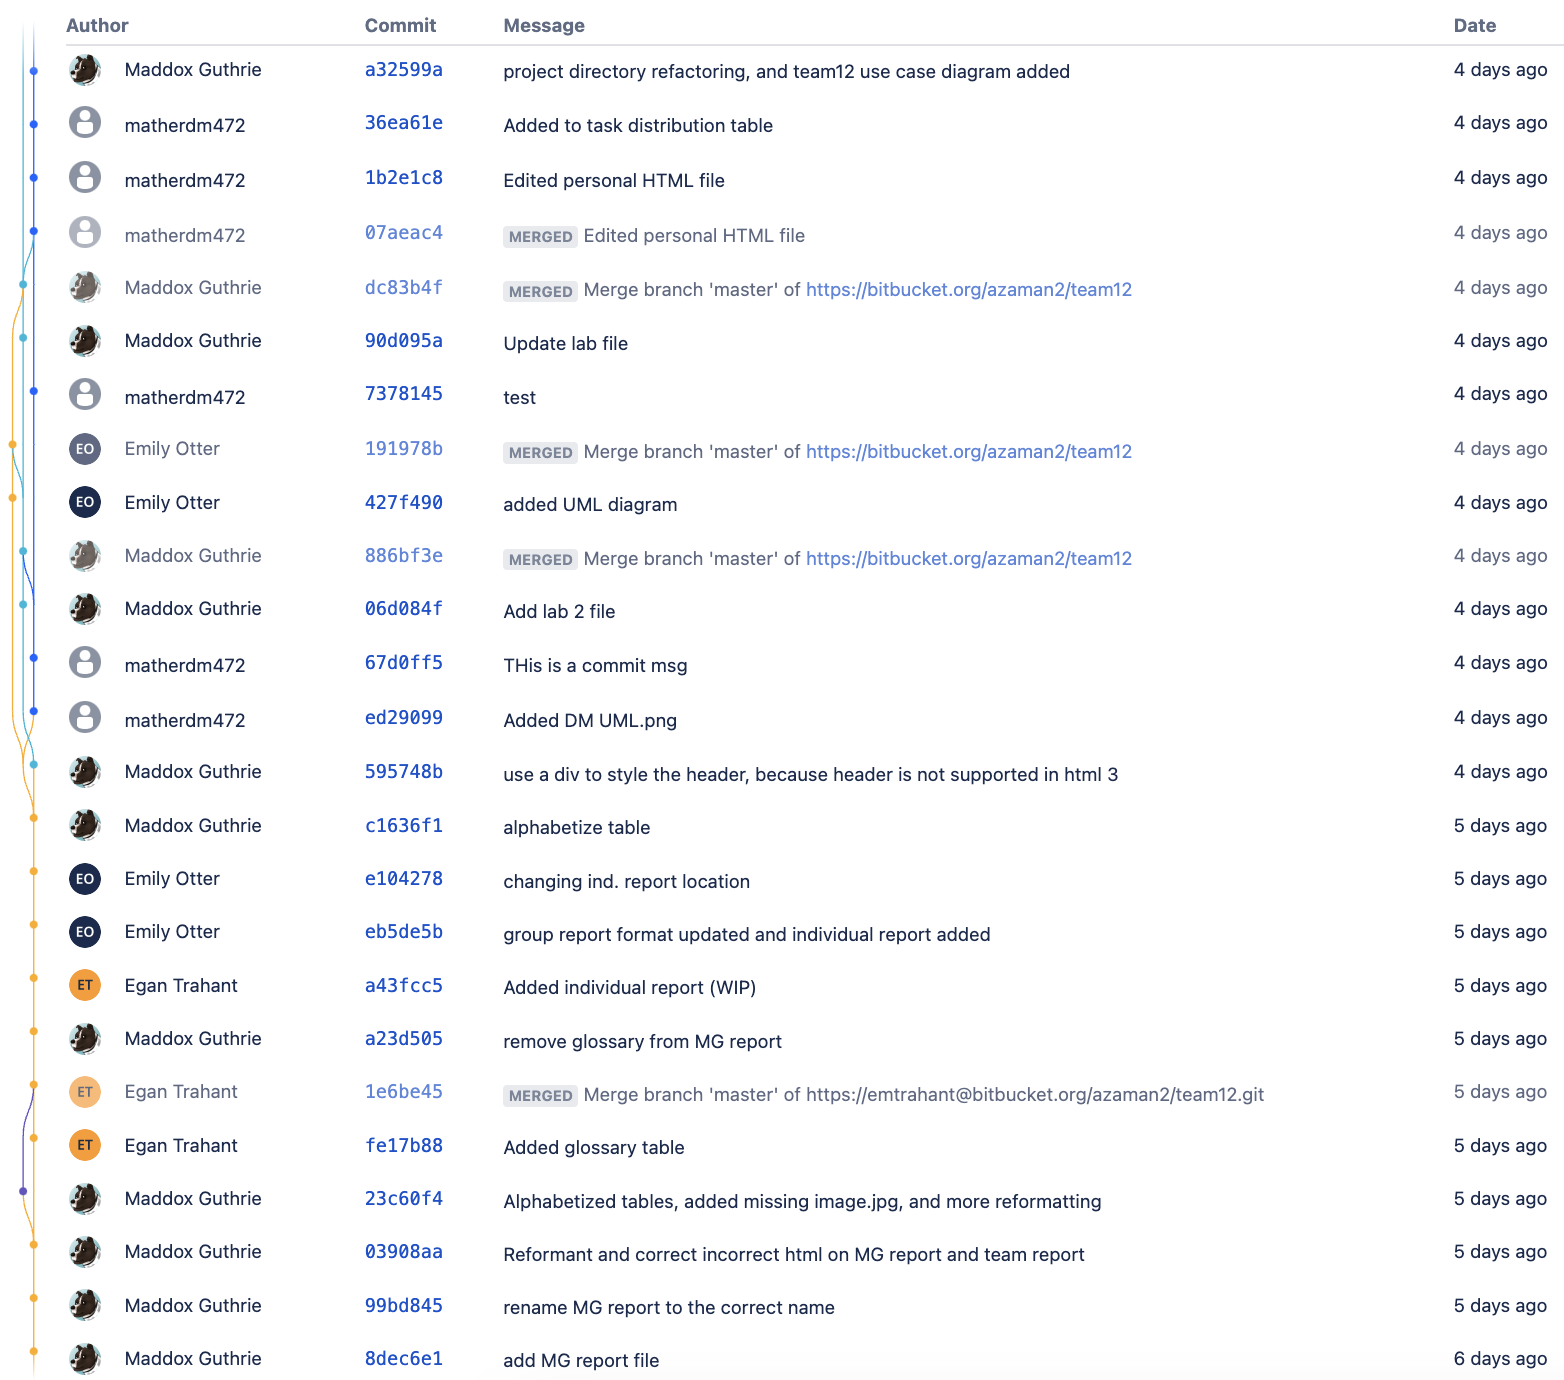
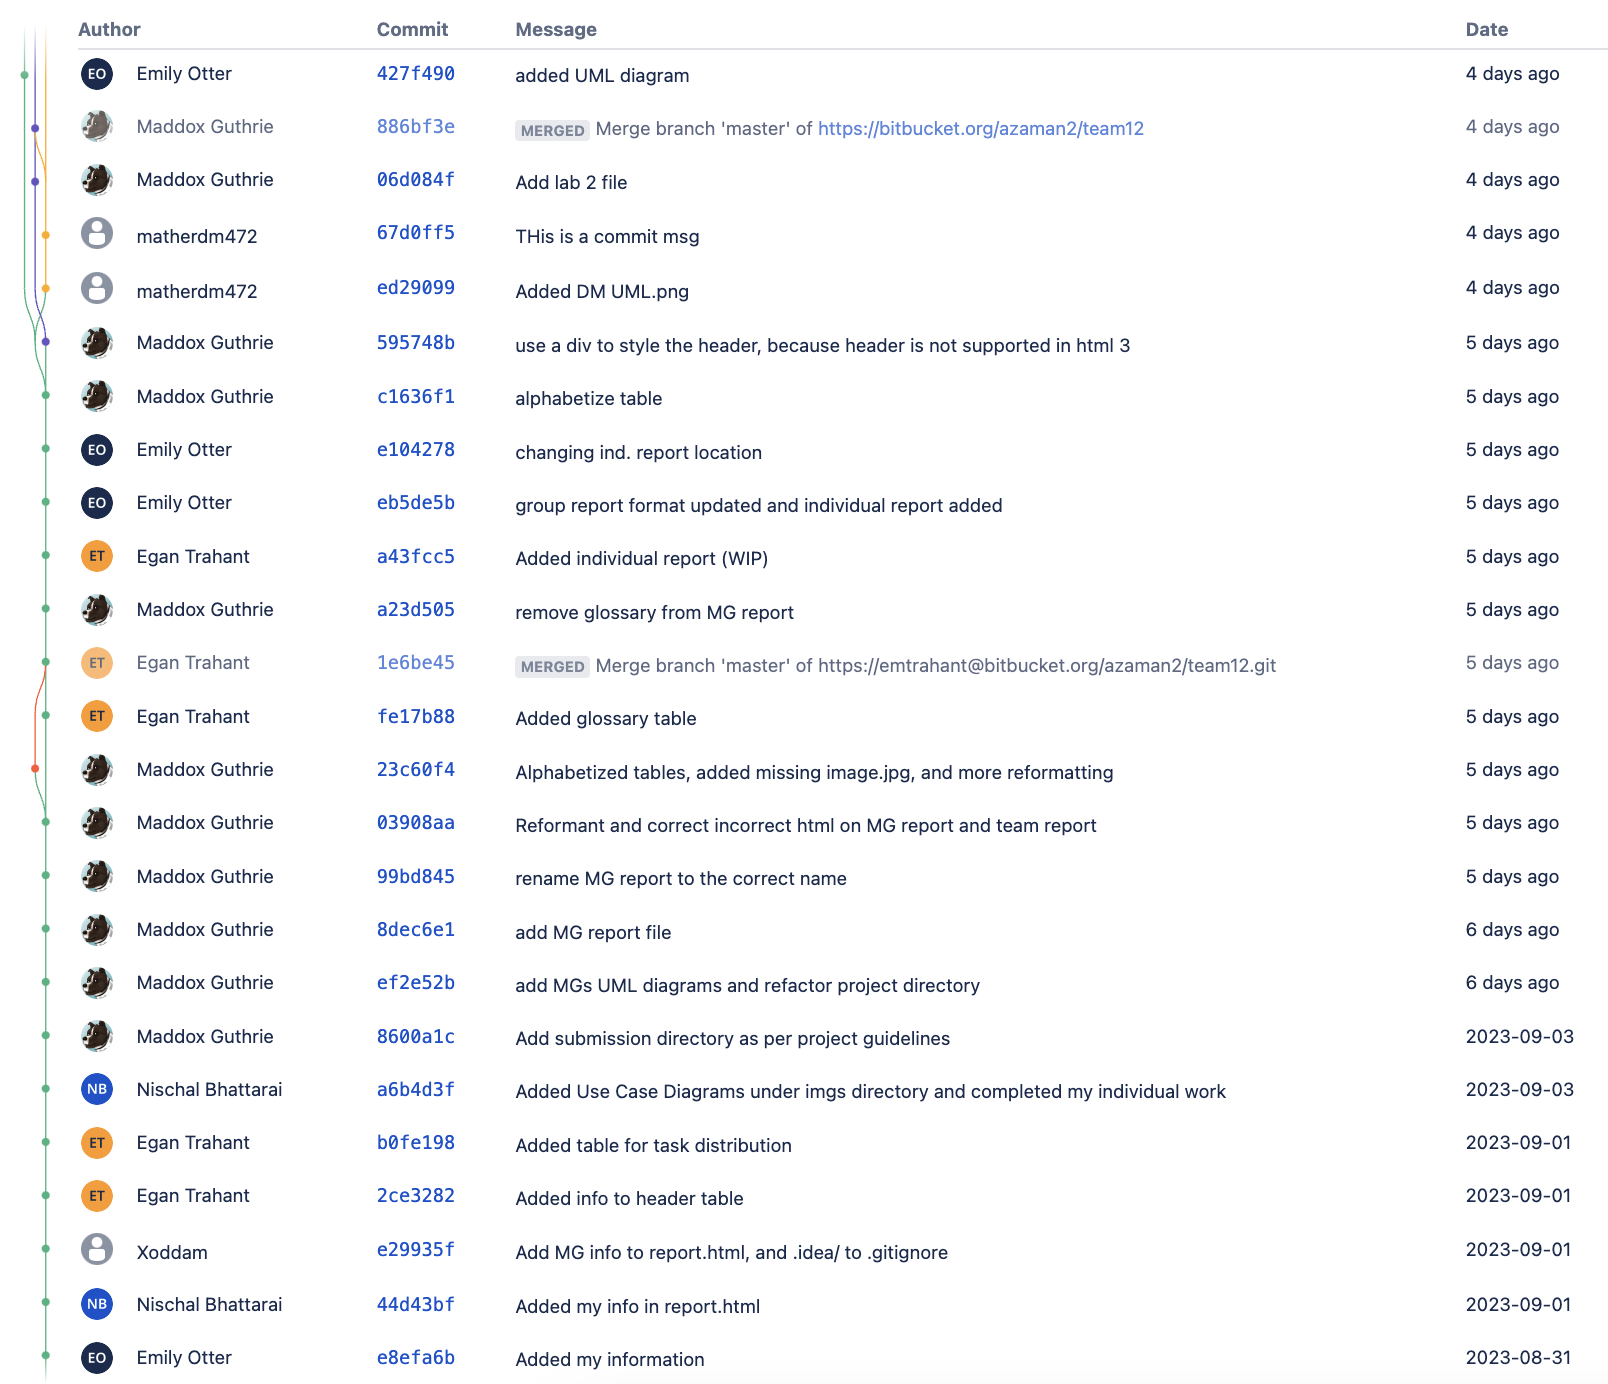
FINAL COMMIT BEFORE SUBMISSION

diff --git a/Project 1/Team12_Requirements/report.html b/Project 1/Team12_Requirements/report.html
@@ -90,7 +90,7 @@
                 <td>Emily Otter</td>
                 <td>eaotter@crimson.ua.edu</td>
                 <td>12100724</td>
-                <td>N/A</td>
+                <td>7</td>
             <tr>
             <tr>
                 <td>Egan Trahant</td>
@@ -136,6 +136,7 @@
         </table>
 
     <h1> Bitbucket Statistics Table</h1>
+        <img src="BitbucketCommit_PNG/BitbucketCommit4.png" alt="Bitbucket Commits" style="height:100%">
         <img src="BitbucketCommit_PNG/BitbucketCommit3.png" alt="Bitbucket Commits" style="height:100%">
         <img src="BitbucketCommit_PNG/BitbucketCommit2.png" alt="Bitbucket Commits" style="height:100%">
         <img src="BitbucketCommit_PNG/BitbucketCommit1.png" alt="Bitbucket Commits" style="height:100%">
@@ -159,7 +160,7 @@
             The team's use case diagram is embedded in this file: report.html.
             This diagram can also be found under the UMLDiagrams_PNG directory,
             and it is named Team12UML.png. Everyone’s involvement in the project can
-            be seen by the bitbucket commit logs shown as the images imbedded in this file.
+            be seen by the bitbucket commit logs shown as the images embedded in this file.
             The images are stored in the BitbucketCommit_PNG directory and the
             images follow the BitbucketCommitX.png naming scheme.
             Please note that the user matherdm472 is Dylan Mather and the user Xoddam is Maddox
@@ -195,7 +196,7 @@
         </tr>
         <tr>
             <td>Manager</td>
-            <td>ChocAn manager who can request and recieve reports.</td>
+            <td>ChocAn manager who can request and receive reports.</td>
         </tr>
         <tr>
             <td>Member</td>
@@ -222,16 +223,16 @@
             <td>Health care professional who provides services under ChocAn</td>
         </tr>
         <tr>
+            <td>Provider Directory</td>
+            <td>Ordered list of service names and corresponding service codes and fees</td>
+        </tr>
+        <tr>
             <td>Provider Number</td>
-            <td>Indentification number for providers.</td>
+            <td>Identification number for providers.</td>
         </tr>
         <tr>
             <td>Provider Record</td>
             <td>Record consisting of information on provider including services provided.</td>
-        </tr>
-        <tr>
-            <td>Provider Directory</td>
-            <td>Ordered list of service names and corresponding service codes and fees</td>
         </tr>
         <tr>
             <td>Provider Terminal</td>
@@ -504,7 +505,7 @@
                     <OL TYPE="a">
                         <LI> Reports includes member name, number, street address, city, state, ZIP code and service data, provider name, and service name for each service provided.
                     </OL>
-                <LI> Reports are sent to providers are sorted in order of when the data was recieved by the computer.
+                <LI> Reports are sent to providers are sorted in order of when the data was received by the computer.
                     <OL TYPE="a">
                         <LI> Report contains same information entered on provider's form. 
                     </OL>

diff --git a/Project 1/Team12_Requirements/EganTrahantTeam12Report.html b/Project 1/Team12_Requirements/EganTrahantTeam12Report.html
@@ -38,7 +38,7 @@
             border-bottom: 1px solid lightgray;
         }
         th {
-            background-color: gray;
+            background-color: grey;
             color: white;
         }
         td {
@@ -107,27 +107,27 @@
         <tr>
             <td>Dylan Mather</td>
             <td>Created initial format for report.html, created use case diagram, and made the header table</td>
-            <td>20%</td>
+            <td>15%</td>
         <tr>
         <tr>
             <td>Maddox Guthrie</td>
             <td>Added information to the header table, created use case diagram, and cleaned up the formatting for report</td>
-            <td>20%</td>
+            <td>30%</td>
         <tr>
         <tr>
             <td>Nischal Bhattarai</td>
             <td>Helped with creation of use case diagram, wrote use cases description</td>
-            <td>20%</td>
+            <td>15%</td>
         <tr>
         <tr>
             <td>Emily Otter</td>
             <td>Internal CSS additions, created use case diagram, and helped format report</td>
-            <td>20%</td>
+            <td>25%</td>
         <tr>
         <tr>
             <td>Egan Trahant</td>
             <td>Added info to header table, created use case diagram, and made table for task distribution</td>
-            <td>20%</td>
+            <td>15%</td>
         <tr>
 	</table>
 </section>

diff --git a/Project 1/Team12_Requirements/EmilyOtterTeam12Report.html b/Project 1/Team12_Requirements/EmilyOtterTeam12Report.html
@@ -68,31 +68,31 @@
             <td>Dylan Mather</td>
             <td>dmmather@crimson.ua.edu</td>
             <td>12267750</td>
-            <td>N/A</td>
+            <td>5</td>
         <tr>
         <tr>
             <td>Emily Otter</td>
             <td>eaotter@crimson.ua.edu</td>
             <td>12100724</td>
-            <td>N/A</td>
+            <td>7</td>
         <tr>
         <tr>
             <td>Nischal Bhattarai</td>
             <td>nbhattarai@crimson.ua.edu</td>
             <td>12088410</td>
-            <td>N/A</td>
+            <td>4</td>
         <tr>
         <tr>
             <td>Maddox Guthrie</td>
             <td>mbguthrie1@crimson.ua.edu</td>
             <td>12184185</td>
-            <td>N/A</td>
+            <td>10</td>
         <tr>
         <tr>
             <td>Egan Trahant</td>
             <td>etrahant@crimson.ua.edu</td>
             <td>12184826</td>
-            <td>N/A</td>
+            <td>5</td>
         <tr>
       </table>
     

diff --git a/Project 1/Team12_Requirements/DylanMatherTeam12Report.html b/Project 1/Team12_Requirements/DylanMatherTeam12Report.html
@@ -112,7 +112,7 @@
         <tr>
             <td>Maddox Guthrie</td>
             <td>Added information to the header table, created use case diagram, and cleaned up the formatting for report</td>
-            <td>40%</td>
+            <td>30%</td>
         <tr>
         <tr>
             <td>Nischal Bhattarai</td>
@@ -122,7 +122,7 @@
         <tr>
             <td>Emily Otter</td>
             <td>Internal CSS additions, created use case diagram, and helped format report</td>
-            <td>15%</td>
+            <td>25%</td>
         <tr>
         <tr>
             <td>Egan Trahant</td>

diff --git a/Project 1/Team12_Requirements/NischalBhattaraiTeam12Report.html b/Project 1/Team12_Requirements/NischalBhattaraiTeam12Report.html
@@ -38,7 +38,7 @@
             border-bottom: 1px solid lightgray;
         }
         th {
-            background-color: gray;
+            background-color: grey;
             color: white;
         }
         td {
